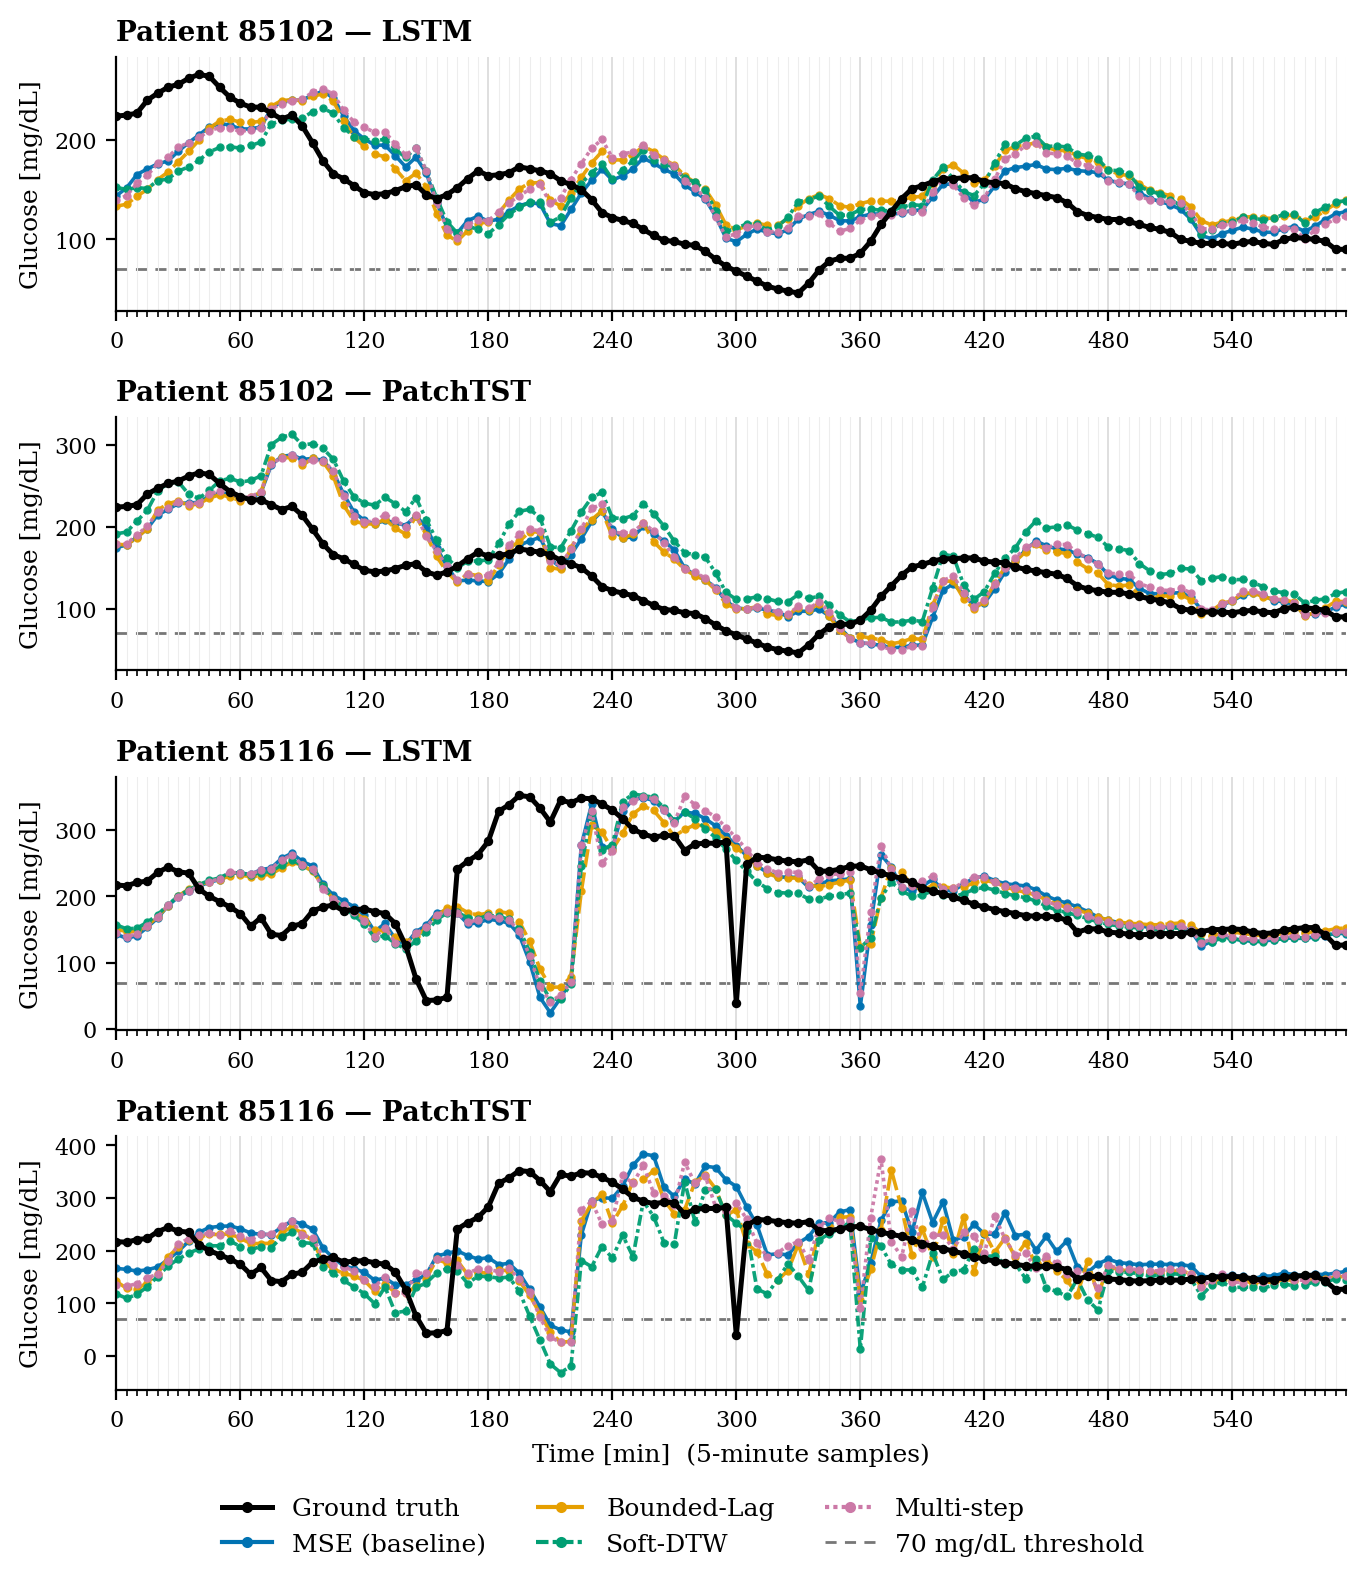
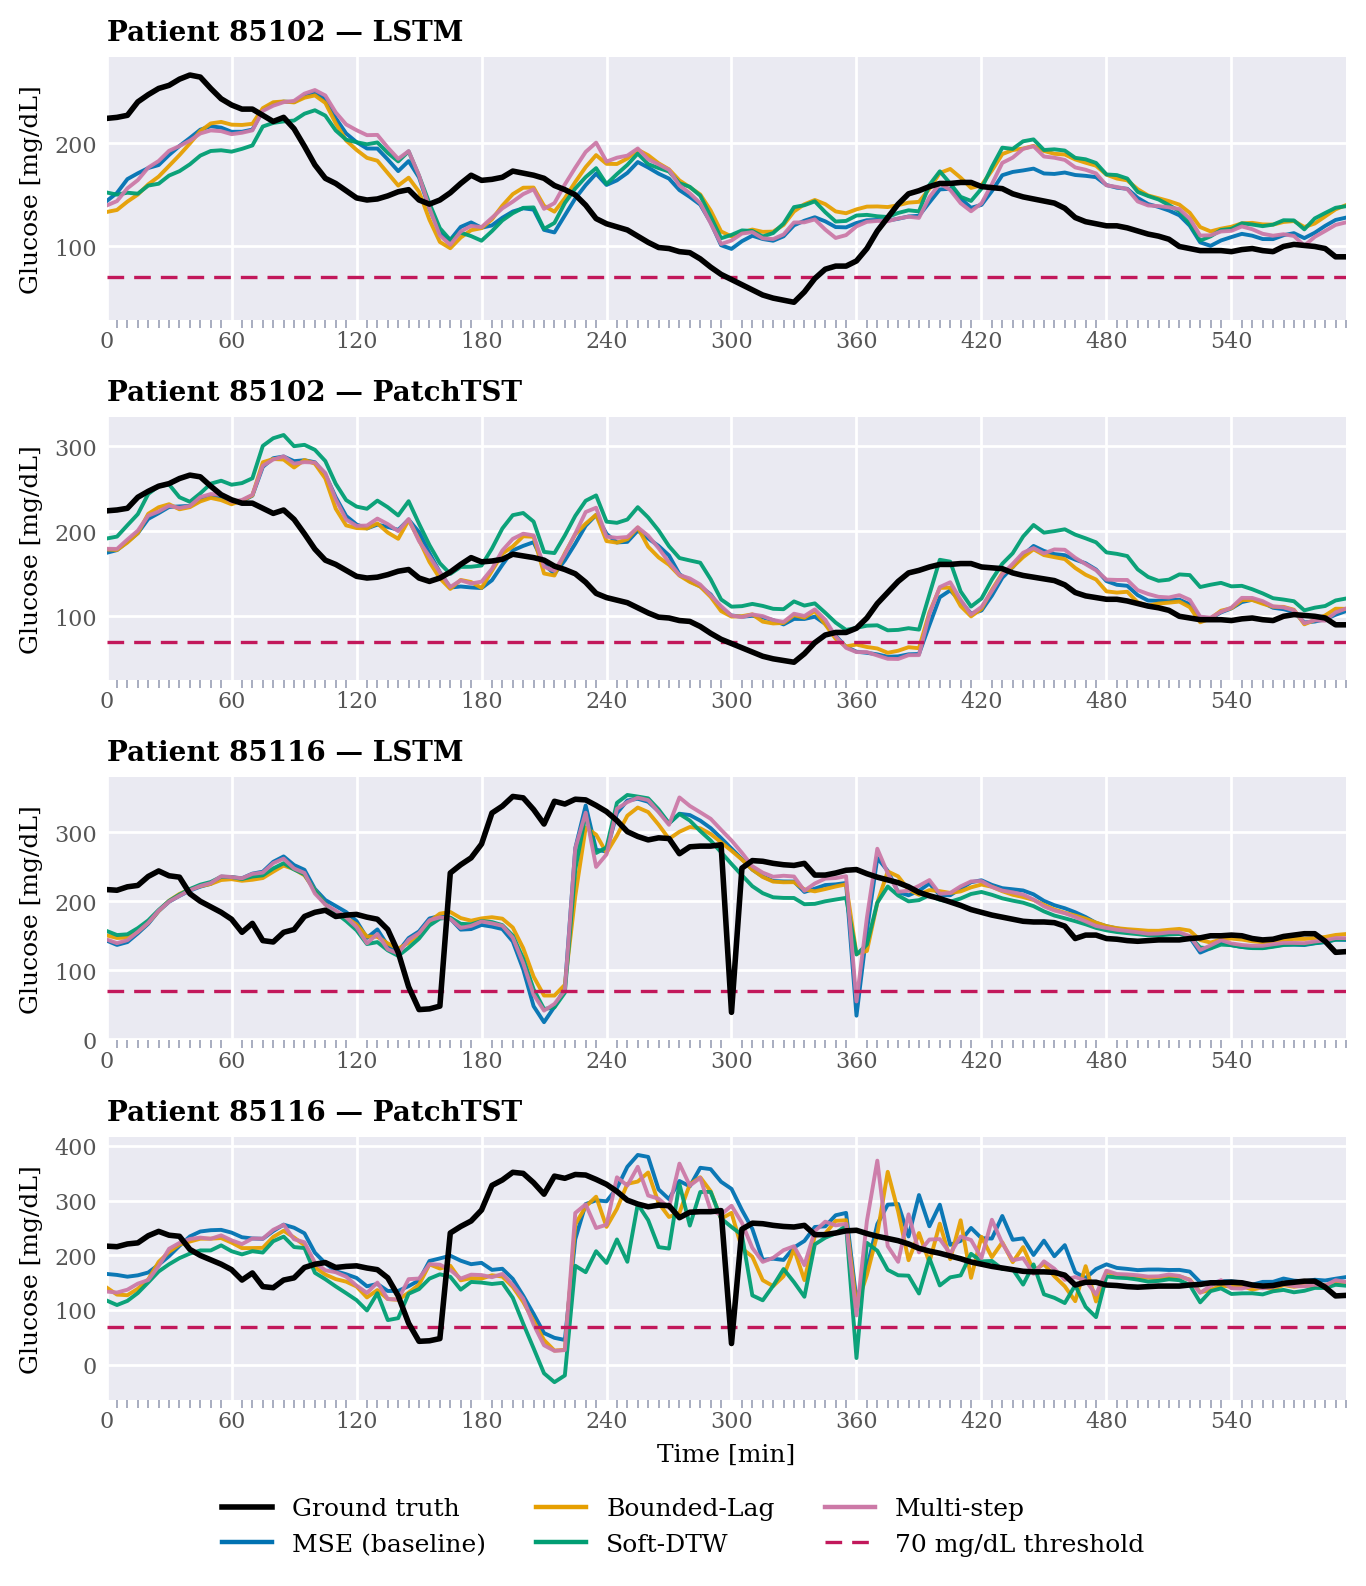
Restyle appendix patient panels: solid lines, seaborn look
Replace per-sample markers with clean solid lines (predictions and ground
truth), matching the requested reference style: seaborn-darkgrid aesthetic
(light grey panels, white gridlines, no spines), Okabe-Ito variant colours,
bold black ground truth, and a dashed magenta 70 mg/dL threshold. Drop the
dense 5-minute gridlines; the 5-minute samples are now marked by small minor
ticks on the time axis. Update captions accordingly.

diff --git a/scripts/make_appendix_patient_panels.py b/scripts/make_appendix_patient_panels.py
@@ -34,16 +34,16 @@ WIN = 120  # 120 steps x 5 min = 10-hour display window
 # Two pages, two patients each (LSTM + PatchTST panels per patient).
 GROUPS = [["85102", "85116"], ["85215", "85217"]]
 
-TRUE_STYLE = dict(color="#000000", linestyle="-", linewidth=1.8, zorder=5)
+TRUE_STYLE = dict(color="#000000", linestyle="-", linewidth=2.0, zorder=6)
 VARIANTS = [
-    # label,            file-stem,      colour,     linestyle
-    ("MSE (baseline)",  "60min",        "#0072B2",  "-"),
-    ("Bounded-Lag",     "bounded_lag",  "#E69F00",  (0, (5, 1.5))),
-    ("Soft-DTW",        "dtw",          "#009E73",  (0, (3, 1, 1, 1))),
-    ("Multi-step",      "multistep",    "#CC79A7",  (0, (1, 1))),
+    # label,            file-stem,      colour (Okabe-Ito, solid)
+    ("MSE (baseline)",  "60min",        "#0072B2"),
+    ("Bounded-Lag",     "bounded_lag",  "#E69F00"),
+    ("Soft-DTW",        "dtw",          "#009E73"),
+    ("Multi-step",      "multistep",    "#CC79A7"),
 ]
 ARCHS = [("LSTM", "lstm"), ("PatchTST", "patchtst")]
-THRESHOLD_COLOR = "#777777"
+THRESHOLD_COLOR = "#C2185B"  # muted magenta, distinct from all variant colours
 
 
 def find_hypo_window(y_true, win_size=WIN):
@@ -86,13 +86,12 @@ def load_trace(arch_stem, var_stem, pid, key):
 
 
 def legend_handles():
-    h = [Line2D([0], [0], color="#000000", linestyle="-", linewidth=1.8,
-                marker="o", markersize=3, label="Ground truth")]
-    h += [Line2D([0], [0], color=c, linestyle=ls, linewidth=1.5,
-                 marker="o", markersize=3, label=lab)
-          for lab, _, c, ls in VARIANTS]
-    h.append(Line2D([0], [0], color=THRESHOLD_COLOR, linestyle=(0, (4, 3)),
-                    linewidth=1.0, label="70 mg/dL threshold"))
+    h = [Line2D([0], [0], color="#000000", linestyle="-", linewidth=2.0,
+                label="Ground truth")]
+    h += [Line2D([0], [0], color=c, linestyle="-", linewidth=1.6, label=lab)
+          for lab, _, c in VARIANTS]
+    h.append(Line2D([0], [0], color=THRESHOLD_COLOR, linestyle=(0, (5, 3)),
+                    linewidth=1.2, label="70 mg/dL threshold"))
     return h
 
 
@@ -109,28 +108,28 @@ def make_page(patients, out_path):
         t = np.arange(e - s) * SAMPLING_MIN  # minutes within window
 
         gt = test_portion(load_trace(arch_stem, "60min", pid, "true"))
-        ax.plot(t, gt[s:e], marker="o", markersize=2.4, markevery=1,
-                label="Ground truth", **TRUE_STYLE)
-        for _, var_stem, color, ls in VARIANTS:
+        ax.plot(t, gt[s:e], label="Ground truth", **TRUE_STYLE)
+        for _, var_stem, color in VARIANTS:
             pred = test_portion(load_trace(arch_stem, var_stem, pid, "pred"))
             m = min(len(pred), e) - s
-            ax.plot(t[:m], pred[s:s + m], color=color, linestyle=ls,
-                    linewidth=1.3, marker="o", markersize=2.0, markevery=1,
-                    alpha=0.95)
+            ax.plot(t[:m], pred[s:s + m], color=color, linestyle="-",
+                    linewidth=1.4, alpha=0.95)
 
-        ax.axhline(HYPO_THRESHOLD, color=THRESHOLD_COLOR, linestyle=(0, (4, 3)),
-                   linewidth=1.0, zorder=1)
+        ax.axhline(HYPO_THRESHOLD, color=THRESHOLD_COLOR, linestyle=(0, (5, 3)),
+                   linewidth=1.2, zorder=2)
         ax.set_title(f"Patient {pid} — {arch_lab}", fontsize=10,
                      fontweight="bold", loc="left")
         ax.set_ylabel("Glucose [mg/dL]")
+        # Major ticks/labels every hour; small minor ticks mark the 5-min steps.
         ax.xaxis.set_major_locator(MultipleLocator(60))
         ax.xaxis.set_minor_locator(MultipleLocator(5))
-        ax.grid(which="major", axis="x", color="0.85", linewidth=0.6)
-        ax.grid(which="minor", axis="x", color="0.93", linewidth=0.4)
+        ax.grid(which="major", color="white", linewidth=1.0)  # seaborn-style grid
+        ax.tick_params(which="major", length=0)
+        ax.tick_params(which="minor", axis="x", length=3, color="#9aa0b5")
         ax.set_xlim(t[0], t[-1])
         ax.margins(y=0.08)
 
-    axes[-1].set_xlabel("Time [min]  (5-minute samples)")
+    axes[-1].set_xlabel("Time [min]")
     fig.legend(handles=legend_handles(), loc="lower center", ncol=3,
                frameon=False, bbox_to_anchor=(0.5, -0.004))
     fig.tight_layout(rect=(0.0, 0.05, 1.0, 1.0))
@@ -148,9 +147,22 @@ def main():
         "axes.labelsize": 9,
         "xtick.labelsize": 8,
         "ytick.labelsize": 8,
+        "figure.dpi": 200,
+        # seaborn-darkgrid-style aesthetic
+        "figure.facecolor": "white",
+        "axes.facecolor": "#EAEAF2",
+        "axes.edgecolor": "white",
+        "axes.linewidth": 0.0,
+        "axes.grid": True,
+        "axes.axisbelow": True,
+        "grid.color": "white",
+        "grid.linewidth": 1.0,
+        "xtick.color": "#555555",
+        "ytick.color": "#555555",
         "axes.spines.top": False,
         "axes.spines.right": False,
-        "figure.dpi": 200,
+        "axes.spines.left": False,
+        "axes.spines.bottom": False,
     })
     for i, patients in enumerate(GROUPS, start=1):
         make_page(patients, OUT_TMPL.format(i))

diff --git a/thesis/appendix.tex b/thesis/appendix.tex
@@ -10,7 +10,7 @@ This appendix contains supplementary figures and numerical tables that support t
 \begin{figure}[H]
     \centering
     \includegraphics[width=\textwidth]{appendix_patient_panels_1.png}
-    \caption[Per-patient forecasting trajectories across training variants (1/2)]{Per-patient 60-minute forecasting trajectories for all four training variants (MSE, Bounded-Lag, Soft-DTW, Multi-step), shown for the LSTM and PatchTST architectures over a 10-hour test window at the native 5-minute sampling. Each panel overlays the ground truth (bold black, with a marker at every sample) and the four variants; the dashed grey line marks the 70~mg/dL threshold, and colours and line styles are fixed per variant across all panels (shared legend below). Shown here: patient 85102, a sharp single hypoglycaemia event, and patient 85116, a volatile window with multiple deep events (Fig.~\ref{fig:app:patient_panels2} continues with two further patients). The trajectories reveal the per-patient variation behind the cohort-mean metrics of Sections~\ref{sec:exp:obj1} and~\ref{sec:exp:obj2}; the amplitude departure of Soft-DTW under PatchTST (Section~\ref{sec:exp:obj1}) is visible for patient 85116.}
+    \caption[Per-patient forecasting trajectories across training variants (1/2)]{Per-patient 60-minute forecasting trajectories for all four training variants (MSE, Bounded-Lag, Soft-DTW, Multi-step), shown for the LSTM and PatchTST architectures over a 10-hour test window at the native 5-minute sampling. Each panel overlays the ground truth (bold black) and the four variants; minor ticks on the time axis mark the 5-minute samples, the dashed line marks the 70~mg/dL threshold, and colours are fixed per variant across all panels (shared legend below). Shown here: patient 85102, a sharp single hypoglycaemia event, and patient 85116, a volatile window with multiple deep events (Fig.~\ref{fig:app:patient_panels2} continues with two further patients). The trajectories reveal the per-patient variation behind the cohort-mean metrics of Sections~\ref{sec:exp:obj1} and~\ref{sec:exp:obj2}; the amplitude departure of Soft-DTW under PatchTST (Section~\ref{sec:exp:obj1}) is visible for patient 85116.}
     \label{fig:app:patient_panels}
 \end{figure}
 \clearpage
@@ -18,7 +18,7 @@ This appendix contains supplementary figures and numerical tables that support t
 \begin{figure}[H]
     \centering
     \includegraphics[width=\textwidth]{appendix_patient_panels_2.png}
-    \caption[Per-patient forecasting trajectories across training variants (2/2)]{Continuation of Fig.~\ref{fig:app:patient_panels}: per-patient 60-minute forecasting trajectories for all four training variants and both architectures, at the native 5-minute sampling. This figure shows patient 85215, a gradual single descent into hypoglycaemia, and patient 85217, a window containing no event in which the trajectory approaches but does not cross the 70~mg/dL threshold. Across both patients the variants track the ground-truth shape at the characteristic temporal offset; colours, line styles, and the shared legend are as in Fig.~\ref{fig:app:patient_panels}.}
+    \caption[Per-patient forecasting trajectories across training variants (2/2)]{Continuation of Fig.~\ref{fig:app:patient_panels}: per-patient 60-minute forecasting trajectories for all four training variants and both architectures, at the native 5-minute sampling. This figure shows patient 85215, a gradual single descent into hypoglycaemia, and patient 85217, a window containing no event in which the trajectory approaches but does not cross the 70~mg/dL threshold. Across both patients the variants track the ground-truth shape at the characteristic temporal offset; variant colours and the shared legend are as in Fig.~\ref{fig:app:patient_panels}.}
     \label{fig:app:patient_panels2}
 \end{figure}
 \clearpage